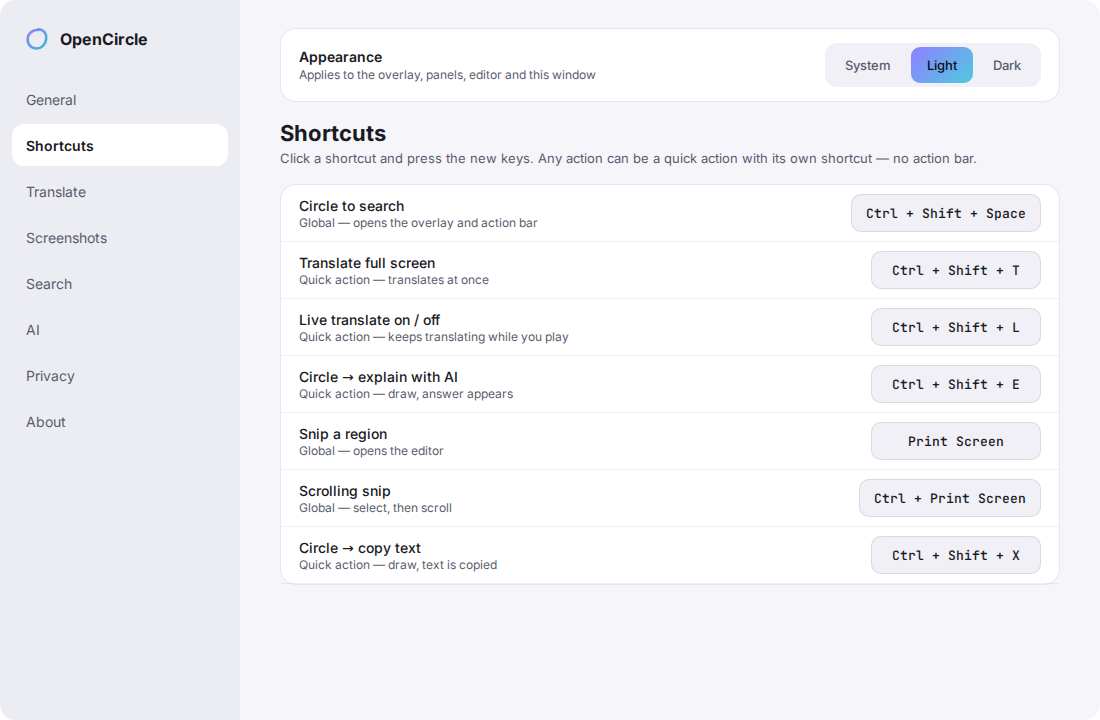
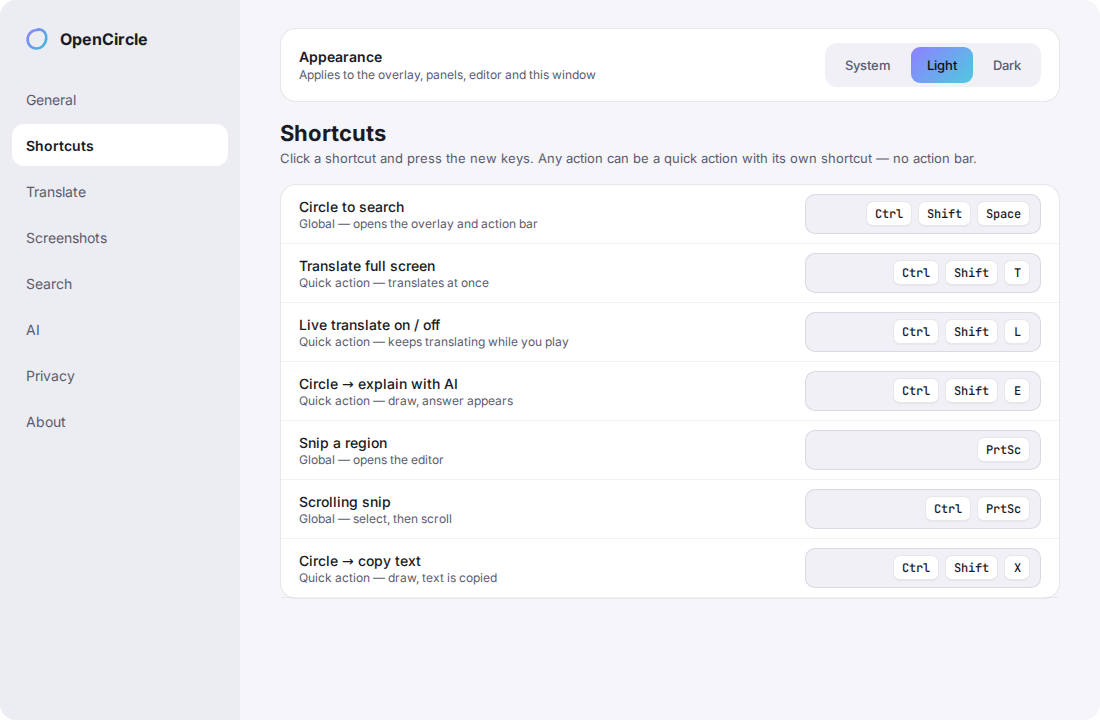
Consistent shortcut fields and a single colour button in the editor
Every shortcut field has one width with a keycap per key; the editor's colour
swatches collapse into one button that opens a picker.

diff --git a/AGENTS.md b/AGENTS.md
@@ -95,6 +95,11 @@ production systems.
   same floating bar into the editing toolbar (shapes, arrows, blur, text,
   steps, …) with a back arrow to the actions; works on any capture. One
   editor shared with Snip mode.
+- Visual consistency (owner, 2026-10-23): controls of the same kind look
+  identical — same width, height, radius, spacing and alignment (e.g. every
+  shortcut field is the same width with one keycap per key). No crowded
+  rows of options: group them behind one control (e.g. one colour button
+  opening a picker instead of a row of swatches).
 - Themes (owner, 2026-10-23): Light, Dark and System, from one token set.
 - Workflow (owner, 2026-10-23): planning first; execution starts only after
   the owner reviews the plan and adds rules.

diff --git a/gallery/README.md b/gallery/README.md
@@ -24,6 +24,10 @@ Click **Edit** and the same bar turns into an editing toolbar (shapes, arrows, p
 
 ![Edit in place](01b-edit-in-place.png)
 
+One colour button opens the picker (12 colours, stroke width, custom colour):
+
+![Colour picker](01c-edit-colour-picker.png)
+
 ### Ask AI
 ![Ask AI panel](05-ask-ai.png)
 
